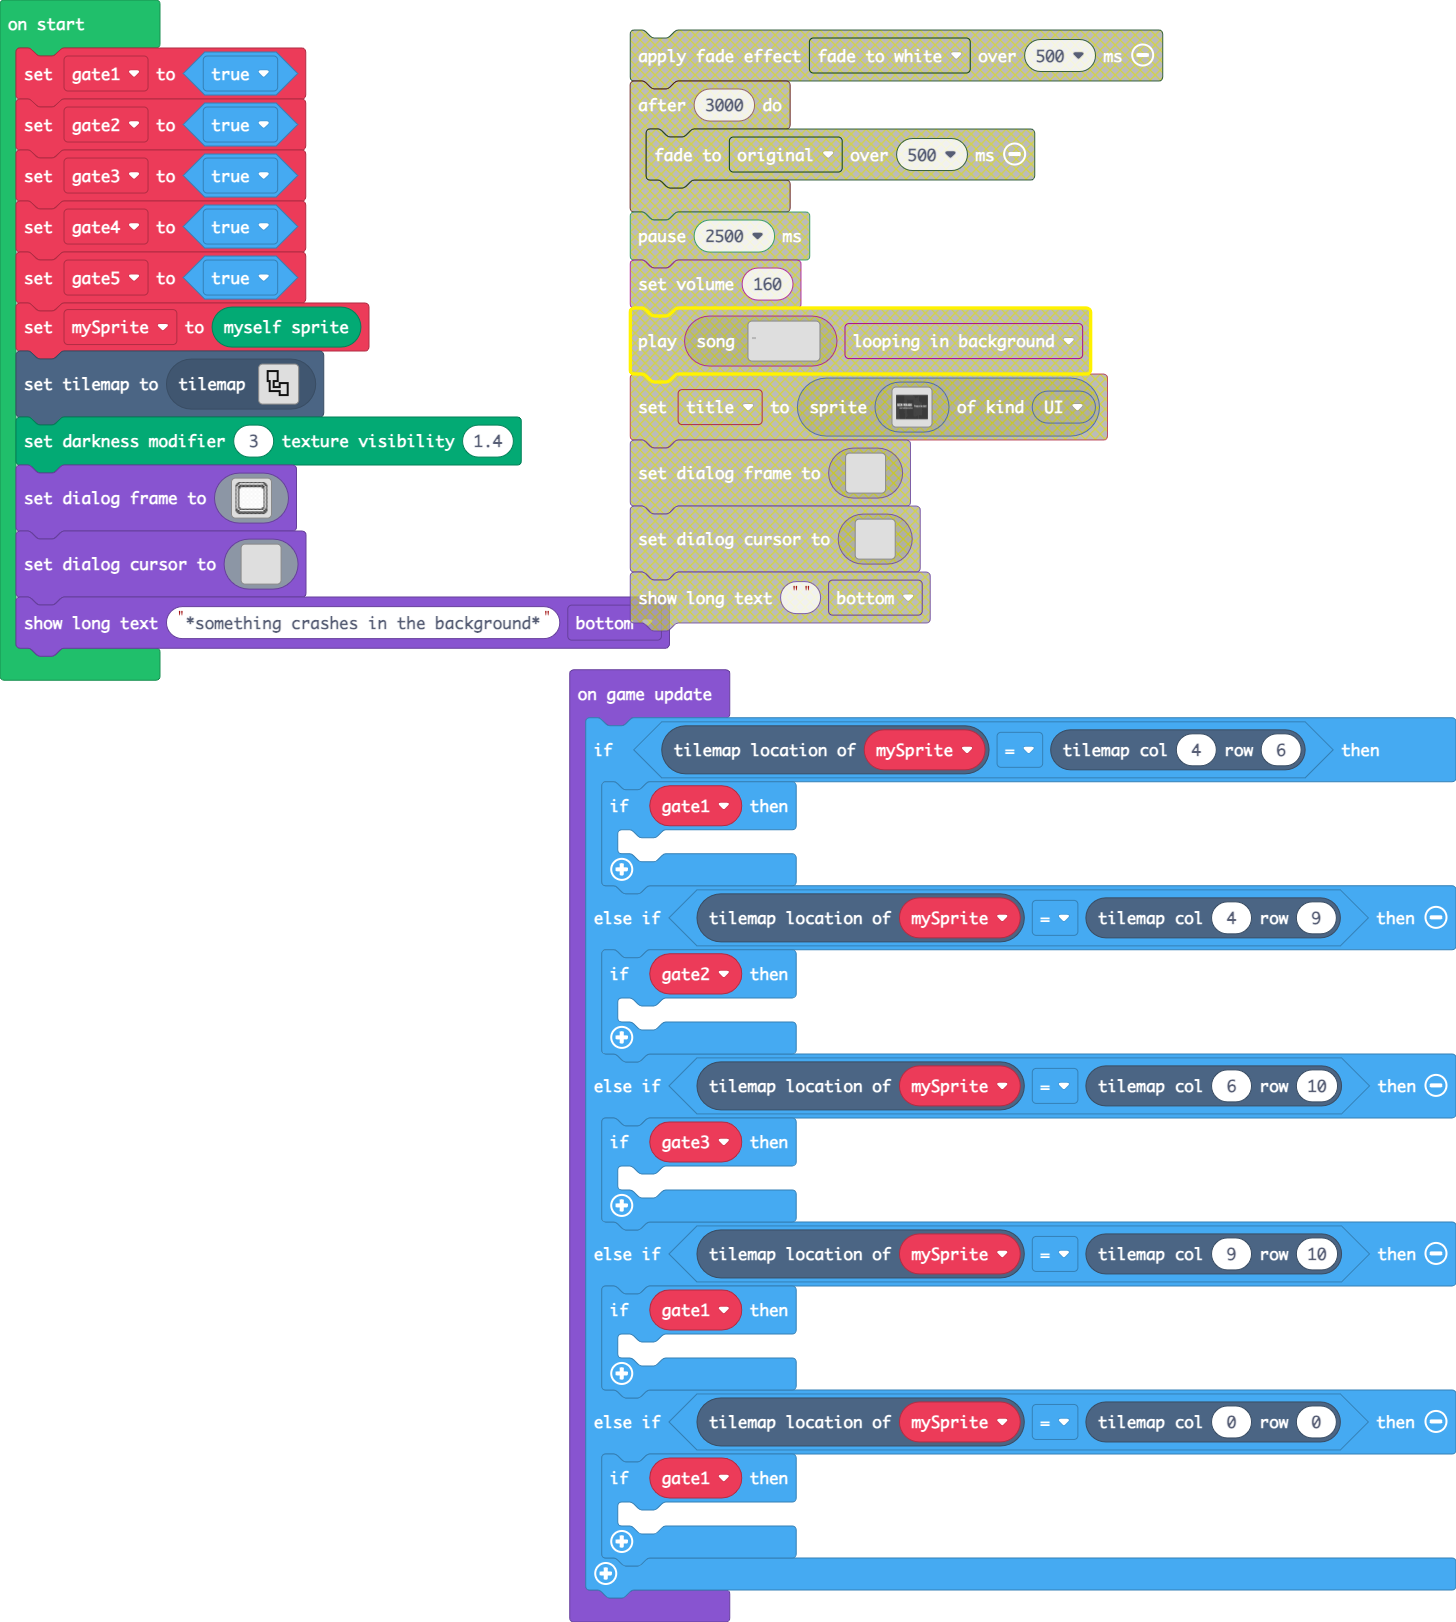
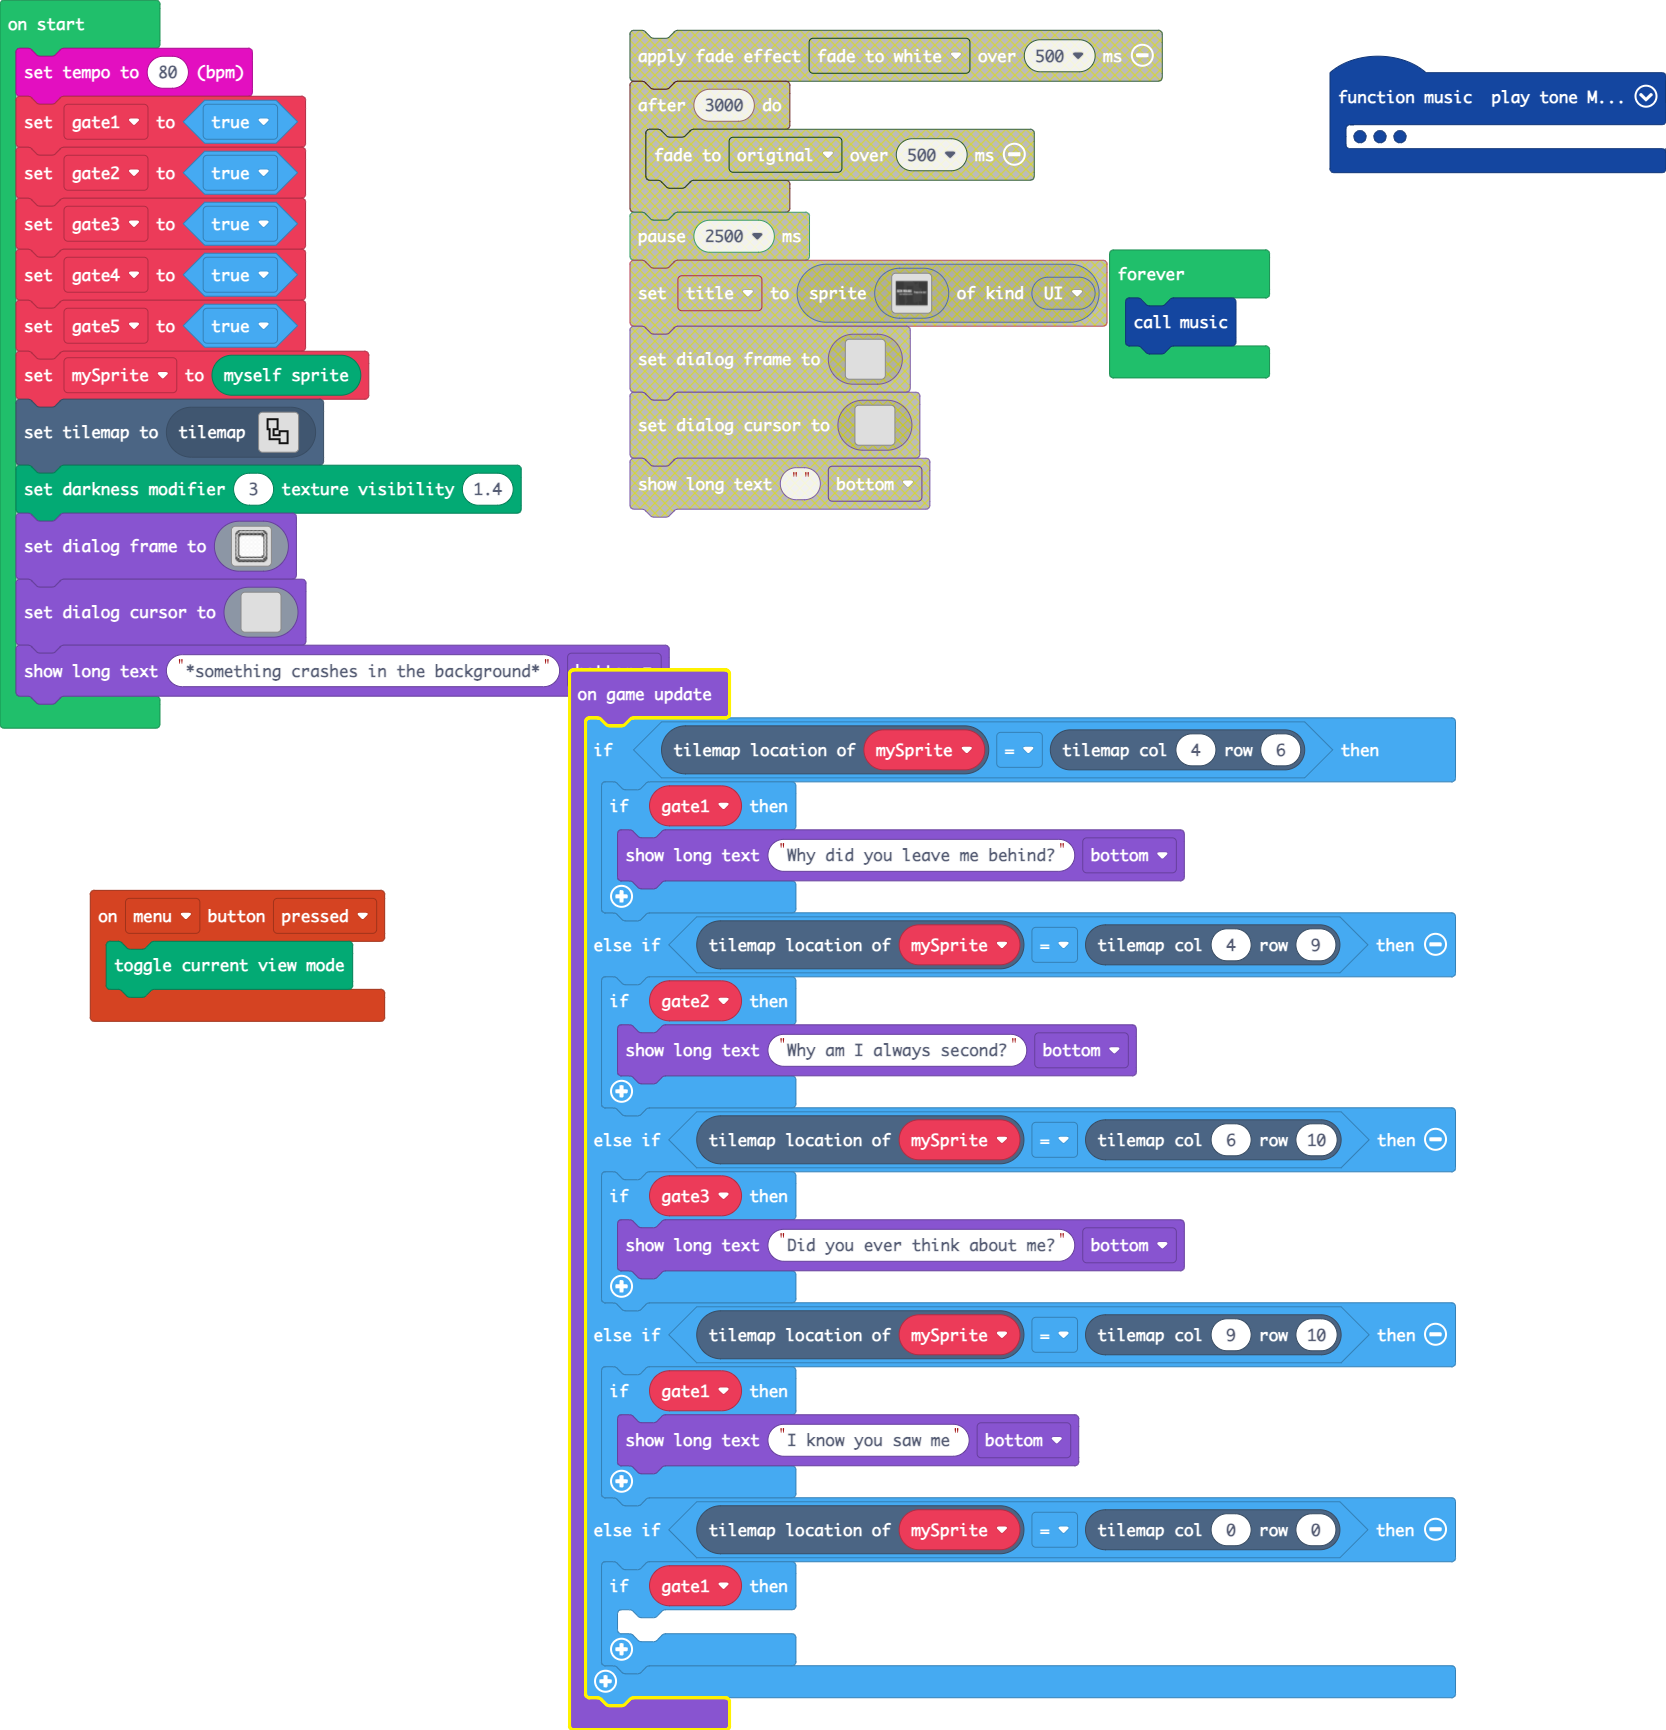
Update main.blocks, main.ts

diff --git a/main.ts b/main.ts
@@ -1,6 +1,44 @@
 namespace SpriteKind {
     export const UI = SpriteKind.create()
 }
+function music2 () {
+    music.play(music.tonePlayable(392, music.beat(BeatFraction.Whole)), music.PlaybackMode.UntilDone)
+    music.play(music.tonePlayable(494, music.beat(BeatFraction.Whole)), music.PlaybackMode.UntilDone)
+    music.play(music.tonePlayable(392, music.beat(BeatFraction.Whole)), music.PlaybackMode.UntilDone)
+    music.rest(music.beat(BeatFraction.Whole))
+    music.play(music.tonePlayable(392, music.beat(BeatFraction.Whole)), music.PlaybackMode.UntilDone)
+    music.play(music.tonePlayable(494, music.beat(BeatFraction.Whole)), music.PlaybackMode.UntilDone)
+    music.play(music.tonePlayable(392, music.beat(BeatFraction.Whole)), music.PlaybackMode.UntilDone)
+    music.rest(music.beat(BeatFraction.Whole))
+    music.play(music.tonePlayable(392, music.beat(BeatFraction.Whole)), music.PlaybackMode.UntilDone)
+    music.play(music.tonePlayable(494, music.beat(BeatFraction.Whole)), music.PlaybackMode.UntilDone)
+    music.play(music.tonePlayable(392, music.beat(BeatFraction.Whole)), music.PlaybackMode.UntilDone)
+    music.play(music.tonePlayable(370, music.beat(BeatFraction.Whole)), music.PlaybackMode.UntilDone)
+    music.play(music.tonePlayable(370, music.beat(BeatFraction.Whole)), music.PlaybackMode.UntilDone)
+    music.play(music.tonePlayable(587, music.beat(BeatFraction.Whole)), music.PlaybackMode.UntilDone)
+    music.play(music.tonePlayable(659, music.beat(BeatFraction.Whole)), music.PlaybackMode.UntilDone)
+    music.rest(music.beat(BeatFraction.Whole))
+    music.play(music.tonePlayable(587, music.beat(BeatFraction.Whole)), music.PlaybackMode.UntilDone)
+    music.play(music.tonePlayable(523, music.beat(BeatFraction.Whole)), music.PlaybackMode.UntilDone)
+    music.play(music.tonePlayable(494, music.beat(BeatFraction.Whole)), music.PlaybackMode.UntilDone)
+    music.rest(music.beat(BeatFraction.Whole))
+    music.play(music.tonePlayable(440, music.beat(BeatFraction.Whole)), music.PlaybackMode.UntilDone)
+    music.play(music.tonePlayable(392, music.beat(BeatFraction.Whole)), music.PlaybackMode.UntilDone)
+    music.play(music.tonePlayable(294, music.beat(BeatFraction.Whole)), music.PlaybackMode.UntilDone)
+    music.play(music.tonePlayable(494, music.beat(BeatFraction.Whole)), music.PlaybackMode.UntilDone)
+    music.play(music.tonePlayable(494, music.beat(BeatFraction.Whole)), music.PlaybackMode.UntilDone)
+    music.play(music.tonePlayable(440, music.beat(BeatFraction.Whole)), music.PlaybackMode.UntilDone)
+    music.play(music.tonePlayable(392, music.beat(BeatFraction.Whole)), music.PlaybackMode.UntilDone)
+    music.rest(music.beat(BeatFraction.Whole))
+    music.play(music.tonePlayable(370, music.beat(BeatFraction.Whole)), music.PlaybackMode.UntilDone)
+    music.play(music.tonePlayable(330, music.beat(BeatFraction.Whole)), music.PlaybackMode.UntilDone)
+    music.play(music.tonePlayable(294, music.beat(BeatFraction.Whole)), music.PlaybackMode.UntilDone)
+    music.play(music.tonePlayable(392, music.beat(BeatFraction.Whole)), music.PlaybackMode.UntilDone)
+}
+controller.menu.onEvent(ControllerButtonEvent.Pressed, function () {
+    Render.toggleViewMode()
+})
+music.setTempo(80)
 let gate1 = true
 let gate2 = true
 let gate3 = true
@@ -57,23 +95,26 @@ game.showLongText("*something crashes in the background*", DialogLayout.Bottom)
 game.onUpdate(function () {
     if (mySprite.tilemapLocation() == tiles.getTileLocation(4, 6)) {
         if (gate1) {
-        	
+            game.showLongText("Why did you leave me behind?", DialogLayout.Bottom)
         }
     } else if (mySprite.tilemapLocation() == tiles.getTileLocation(4, 9)) {
         if (gate2) {
-        	
+            game.showLongText("Why am I always second?", DialogLayout.Bottom)
         }
     } else if (mySprite.tilemapLocation() == tiles.getTileLocation(6, 10)) {
         if (gate3) {
-        	
+            game.showLongText("Did you ever think about me?", DialogLayout.Bottom)
         }
     } else if (mySprite.tilemapLocation() == tiles.getTileLocation(9, 10)) {
         if (gate1) {
-        	
+            game.showLongText("I know you saw me", DialogLayout.Bottom)
         }
     } else if (mySprite.tilemapLocation() == tiles.getTileLocation(0, 0)) {
         if (gate1) {
         	
         }
     }
+})
+forever(function () {
+    music2()
 })
